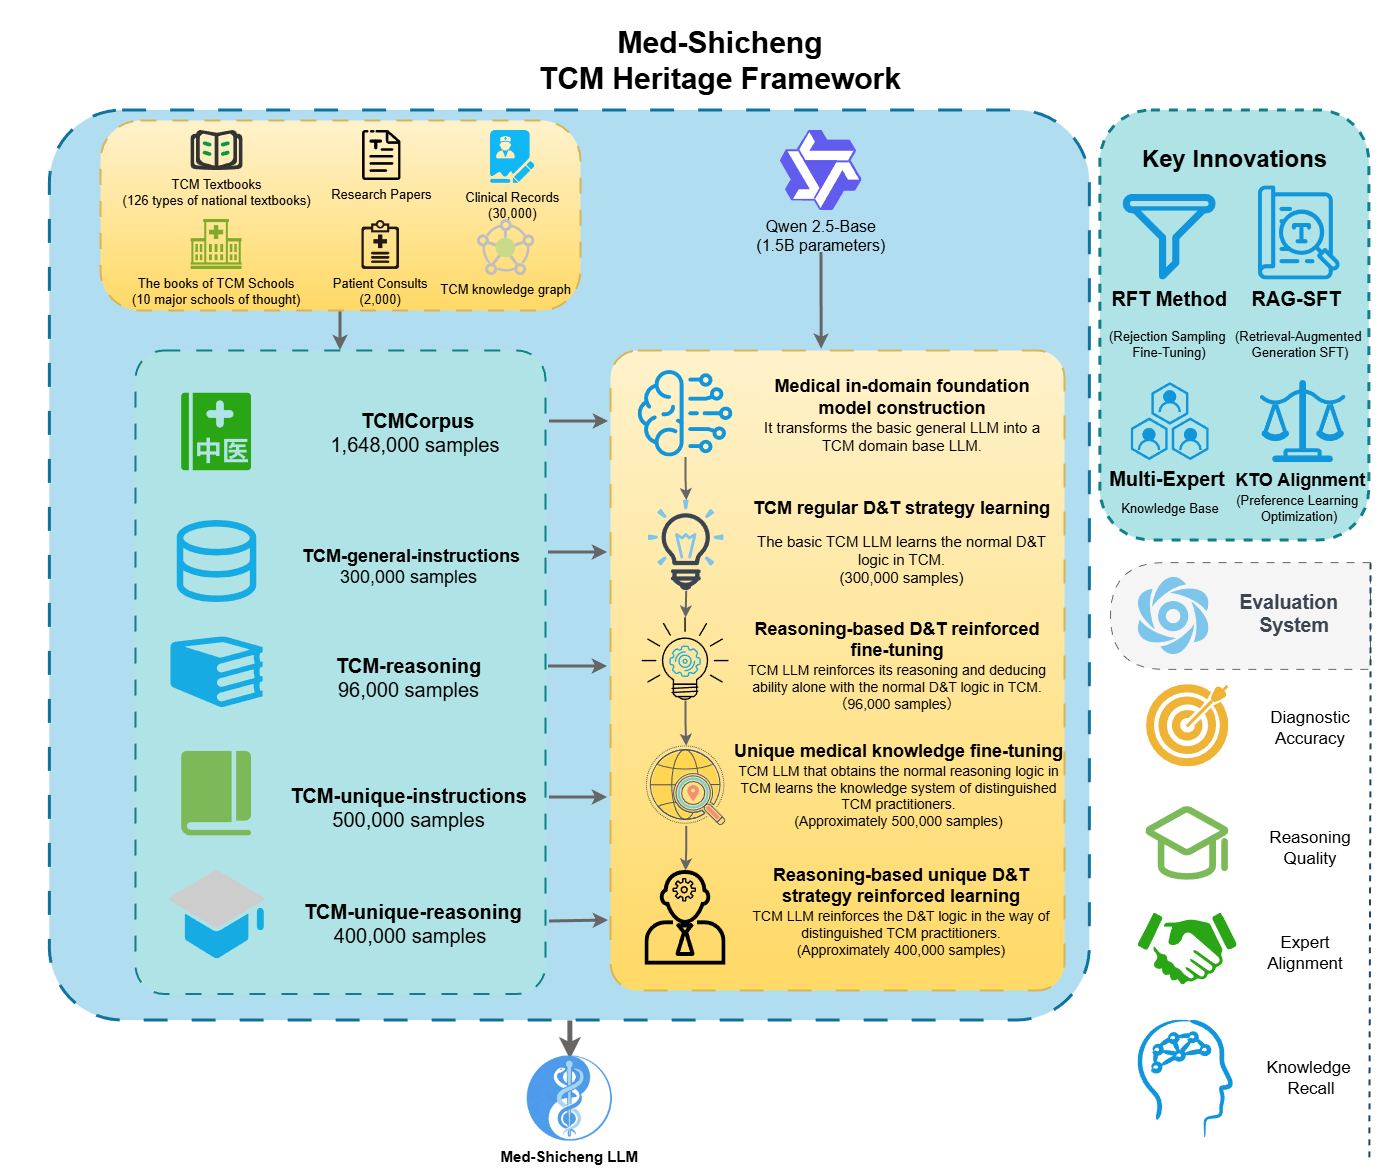
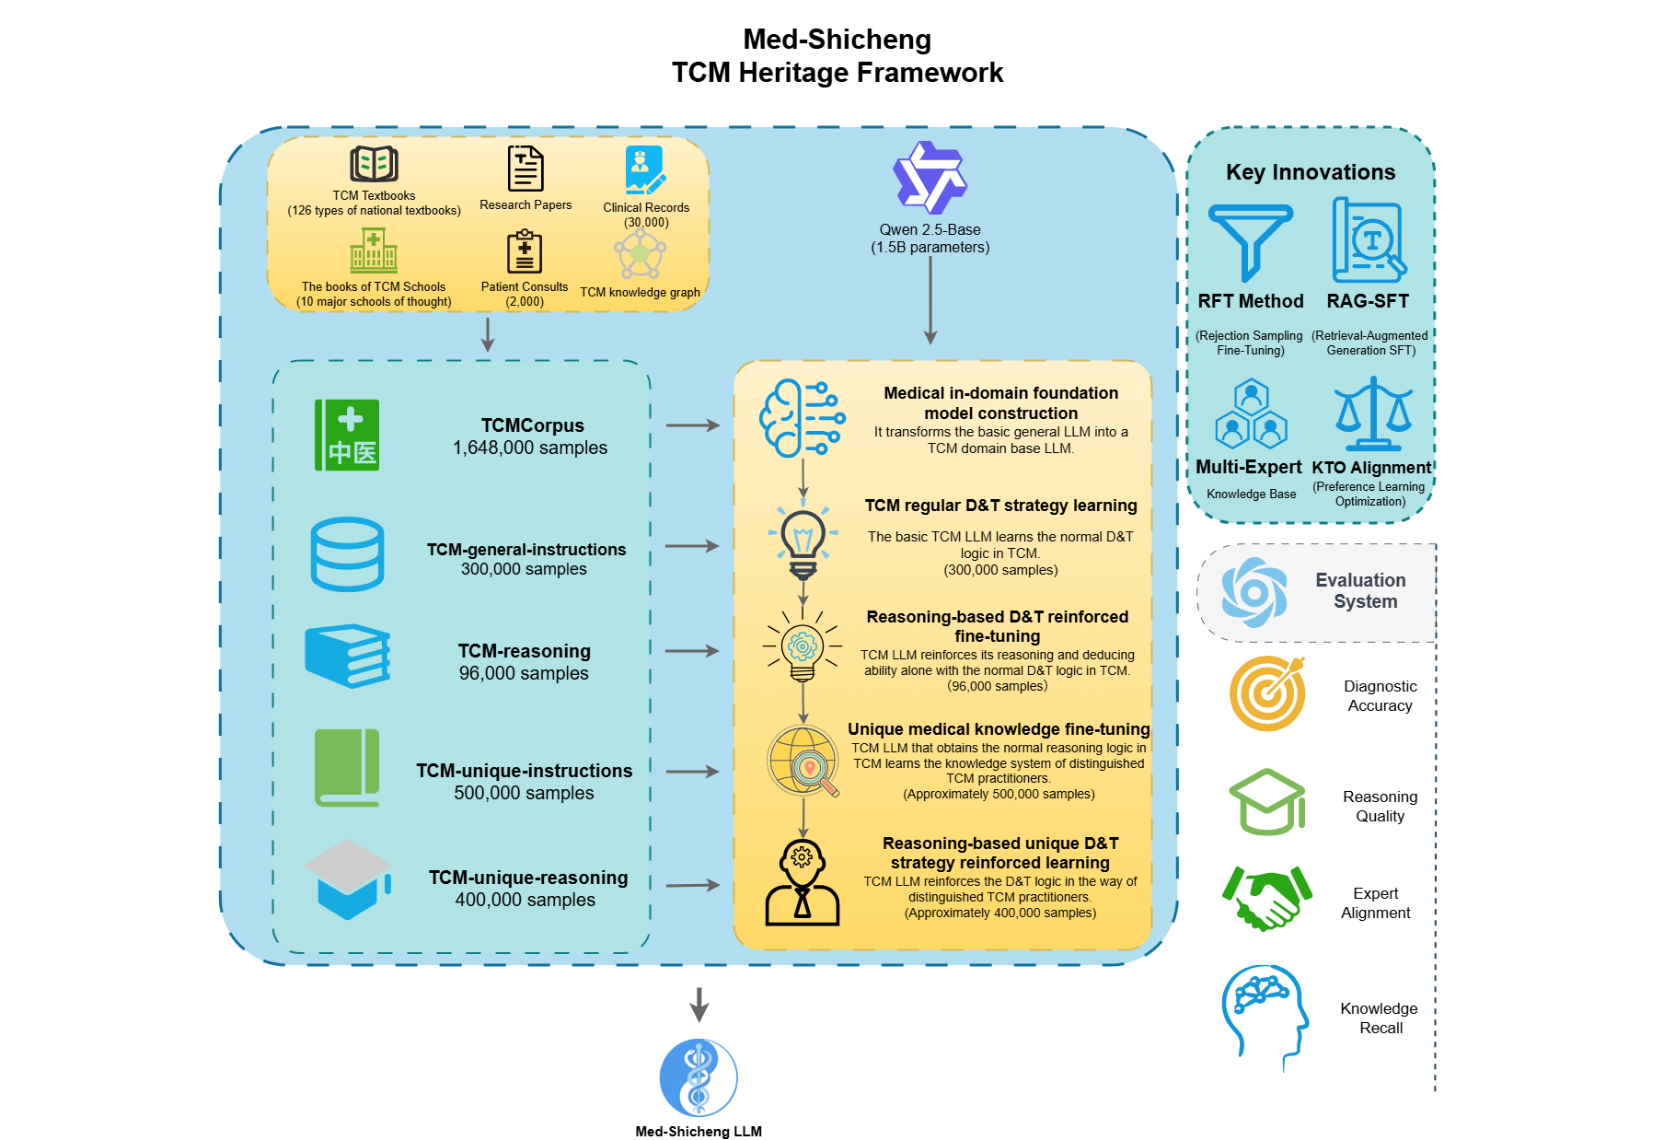
Update README figures to match the manuscript
- Replace framework, automatic-evaluation and human-evaluation figures
  with the versions from the manuscript (Fig. 1, Fig. 3, Fig. 4);
  Fig. 3 downscaled to 2000px width
- Sync model names in README text with the figures: judges are
  DeepSeek-V3.2 and GPT-5.2; top-tier list uses GPT-5.2 and Gemini-3-Pro

diff --git a/README.md b/README.md
@@ -49,7 +49,7 @@ To address these challenges, we propose **Med-Shicheng**, a general framework th
 
 - internalizes the clinical logic and personal styles of **five National Masters / distinguished TCM physicians**,  
 - handles the full chain from **etiology–pathogenesis** analysis to **prescription and follow-up adjustment**,  
-- and can be deployed on **resource-constrained GPUs**, while achieving **performance comparable to large frontier models such as DeepSeek-R1 and GPT-5** in our evaluation settings.
+- and can be deployed on **resource-constrained GPUs**, while achieving **performance comparable to large frontier models such as DeepSeek-R1 and GPT-5.2** in our evaluation settings.
 
 **Key highlight:** Med-Shicheng achieves **SOTA performance in multi-master personalized TCM**, standing out as the **only lightweight model** in the top tier while competing with hundred-billion-parameter general LLMs.
 
@@ -144,7 +144,7 @@ Our **TCM heritage framework** combines staged data curation with multi-task lea
 ### 4.2 Automatic Evaluation (LLM-as-a-Judge)
 
 <div align="center">
-  <img src="./images/auto-evaluations.png" width="80%" alt="Automatic Evaluations by GPT-5 & DeepSeek-V3.2" />
+  <img src="./images/auto-evaluations.png" width="80%" alt="Automatic Evaluations by DeepSeek-V3.2 & GPT-5.2" />
 </div>
 
 We build an evaluation pipeline that uses **state-of-the-art general LLMs** as judges. Each model’s response to a clinical case is scored twice, once by each judge, who compare the generated answer with the gold label and decide how clinically desirable it is.
@@ -152,7 +152,7 @@ We build an evaluation pipeline that uses **state-of-the-art general LLMs** as j
 Key observations:
 
 - Models form **two performance tiers**.  
-- The **top tier** includes: **Med-Shicheng, GPT-5, DeepSeek-R1, Qwen3-235B-A22B-Thinking, Gemini-2.5-Pro**.  
+- The **top tier** includes: **Med-Shicheng, GPT-5.2, DeepSeek-R1, Qwen3-235B-A22B-Thinking, Gemini-3-Pro**.  
 - **Med-Shicheng is the only lightweight model** in this tier, showing competitive clinical quality despite its small parameter count.
 
 ### 4.3 Human Doctor Evaluation
